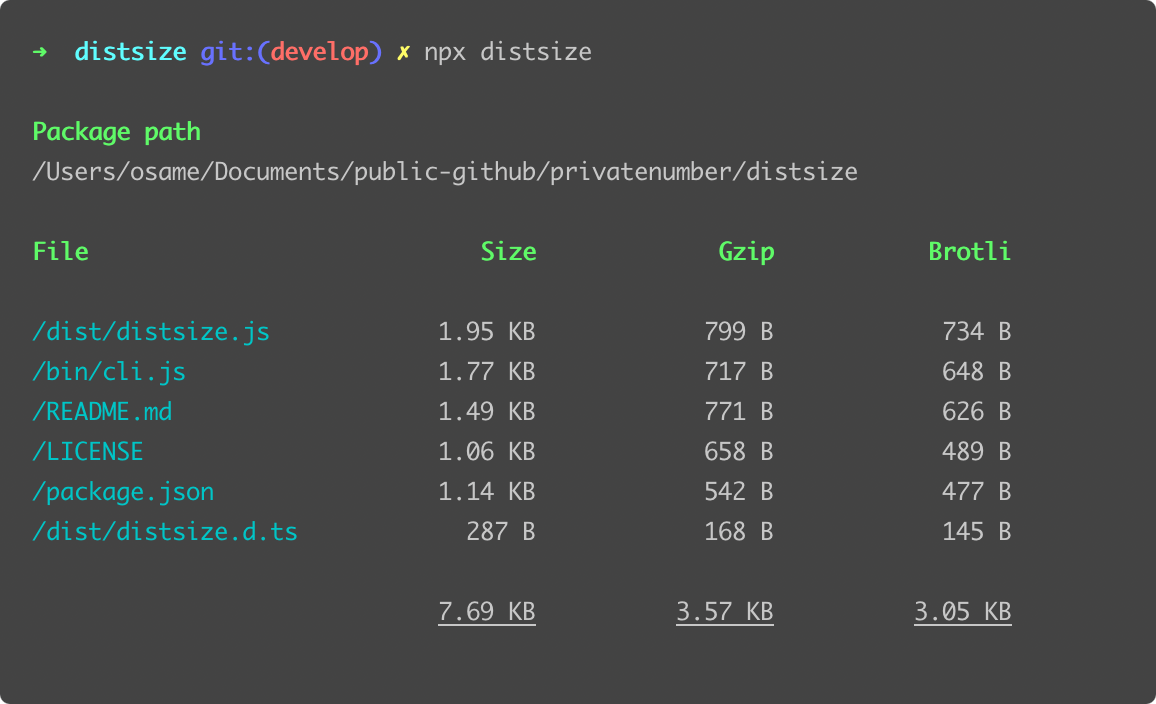
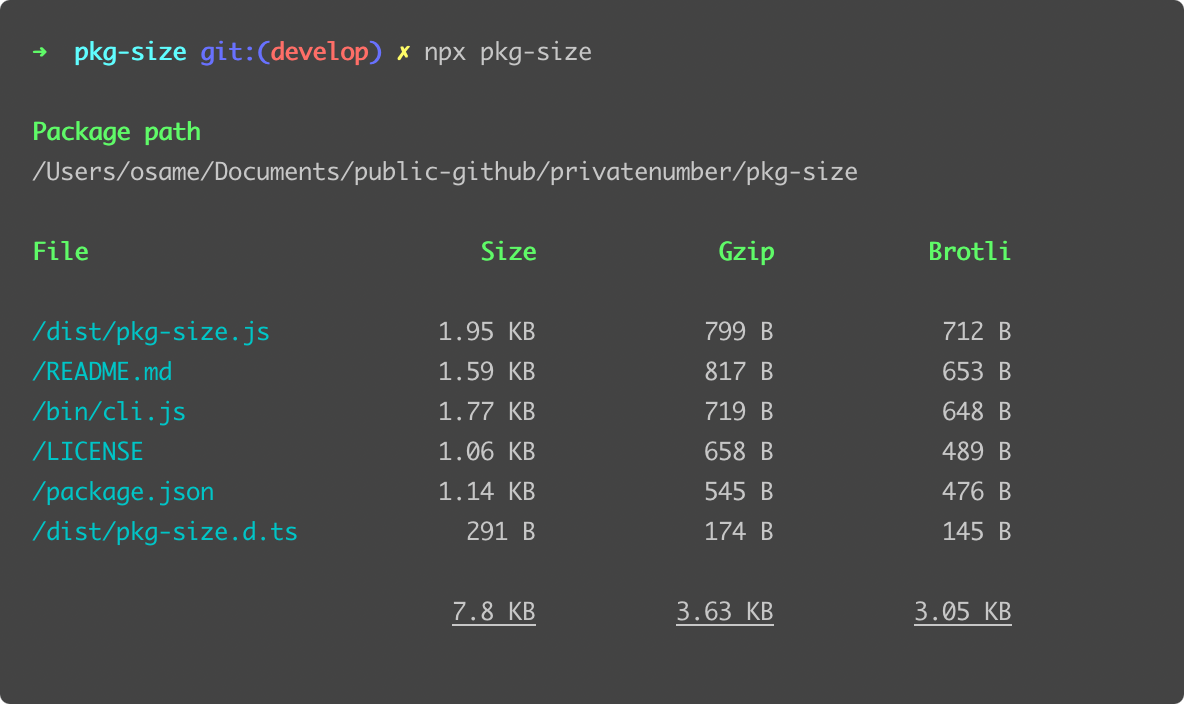
refactor: renamed package to pkg-size

diff --git a/bin/cli.js b/bin/cli.js
@@ -6,13 +6,13 @@ const meow = require('meow');
 const SimpleTable = require('cli-simple-table');
 const filesize = require('filesize');
 const chalk = require('chalk');
-const distsize = require('..');
+const pkgSize = require('..');
 
 const compareFiles = sortBy => (a, b) => b[sortBy] - a[sortBy];
 
 const cli = meow(`
 	Usage
-	  $ distsize <pkg-path>
+	  $ pkg-size <pkg-path>
 
 	Options
 	  --sort-by, -s     Sort list by (name, size, gzip, brotli)
@@ -20,11 +20,11 @@ const cli = meow(`
 	  --version         Show version
 
 	Examples
-	  $ distsize
-	  $ distsize ./pkg/path
+	  $ pkg-size
+	  $ pkg-size ./pkg/path
 
-	  $ distsize --sort-by=name
-	  $ distsize -s brotli
+	  $ pkg-size --sort-by=name
+	  $ pkg-size -s brotli
 `, {
 	flags: {
 		'sort-by': {
@@ -46,7 +46,7 @@ if (sortByValues[sortBy]) {
 	sortBy = sortByValues[sortBy];
 }
 
-distsize(cli.input[0]).then(distData => {
+pkgSize(cli.input[0]).then(distData => {
 	distData.files.sort(compareFiles(sortBy));
 
 	const table = new SimpleTable();

diff --git a/src/pkg-size.ts b/src/pkg-size.ts
@@ -18,7 +18,7 @@ type FileEntry = {
 	sizeBrotli: number;
 };
 
-type Distsize = {
+type PkgSizeData = {
 	pkgPath: string;
 	files: FileEntry[];
 };
@@ -62,11 +62,11 @@ const getTarFiles = async (tarball: Buffer): Promise<FileEntry[]> => new Promise
 		.on('finish', () => resolve(files));
 });
 
-async function distsize(pkgPath = ''): Promise<Distsize> {
+async function pkgSize(pkgPath = ''): Promise<PkgSizeData> {
 	pkgPath = path.resolve(pkgPath);
 	const tarball = await pack(pkgPath);
 	const files = await getTarFiles(tarball);
 	return {pkgPath, files};
 }
 
-export = distsize;
+export = pkgSize;

diff --git a/README.md b/README.md
@@ -3,9 +3,9 @@
 	<br>
 	<img width="70%" src=".github/screenshot.png">
 	<br>
-	<a href="https://npm.im/distsize"><img src="https://badgen.net/npm/v/distsize"></a>
-	<a href="https://npm.im/distsize"><img src="https://badgen.net/npm/dm/distsize"></a>
-	<a href="https://packagephobia.now.sh/result?p=distsize"><img src="https://packagephobia.now.sh/badge?p=distsize"></a>
+	<a href="https://npm.im/pkg-size"><img src="https://badgen.net/npm/v/pkg-size"></a>
+	<a href="https://npm.im/pkg-size"><img src="https://badgen.net/npm/dm/pkg-size"></a>
+	<a href="https://packagephobia.now.sh/result?p=pkg-size"><img src="https://packagephobia.now.sh/badge?p=pkg-size"></a>
 	<br>
 	<br>
 	<i>Measure the size of your npm package distribution</i>
@@ -14,7 +14,7 @@
 **⚡ Try it in your npm package**
 
 ```sh
-$ npx distsize
+$ npx pkg-size
 ```
 
 <sub>If you like this project, please star it & [follow me](https://github.com/privatenumber) to see what other cool projects I'm working on! ❤</sub>
@@ -27,18 +27,18 @@ $ npx distsize
 
 ## 🚀 Install
 ```sh
-npm i distsize
+npm i pkg-size
 ```
 
 ## 🚦 Quick Usage
 ```js
-const distsize = require('distsize');
+const pkgSize = require('pkg-size');
 
-// Get distsize data from current working directory
-const distsizeData = await distsize();
+// Get package size data from current working directory
+const sizeData = await pkgSize();
 
-// Get distsize data from a specific package path
-const distsizeData = await distsize('/path/to/package');
+// Get package size data from a specific package path
+const sizeData = await pkgSize('/path/to/package');
 ```
 
 ## ⚙ API
@@ -51,10 +51,10 @@ type FileEntry = {
     sizeBrotli: number;
 };
 
-type Distsize = {
+type PkgSizeData = {
     pkgPath: string;
     files: FileEntry[];
 };
 
-function distsize(pkgPath?: string): Promise<Distsize>;
+function pkgSize(pkgPath?: string): Promise<PkgSizeData>;
 ```
